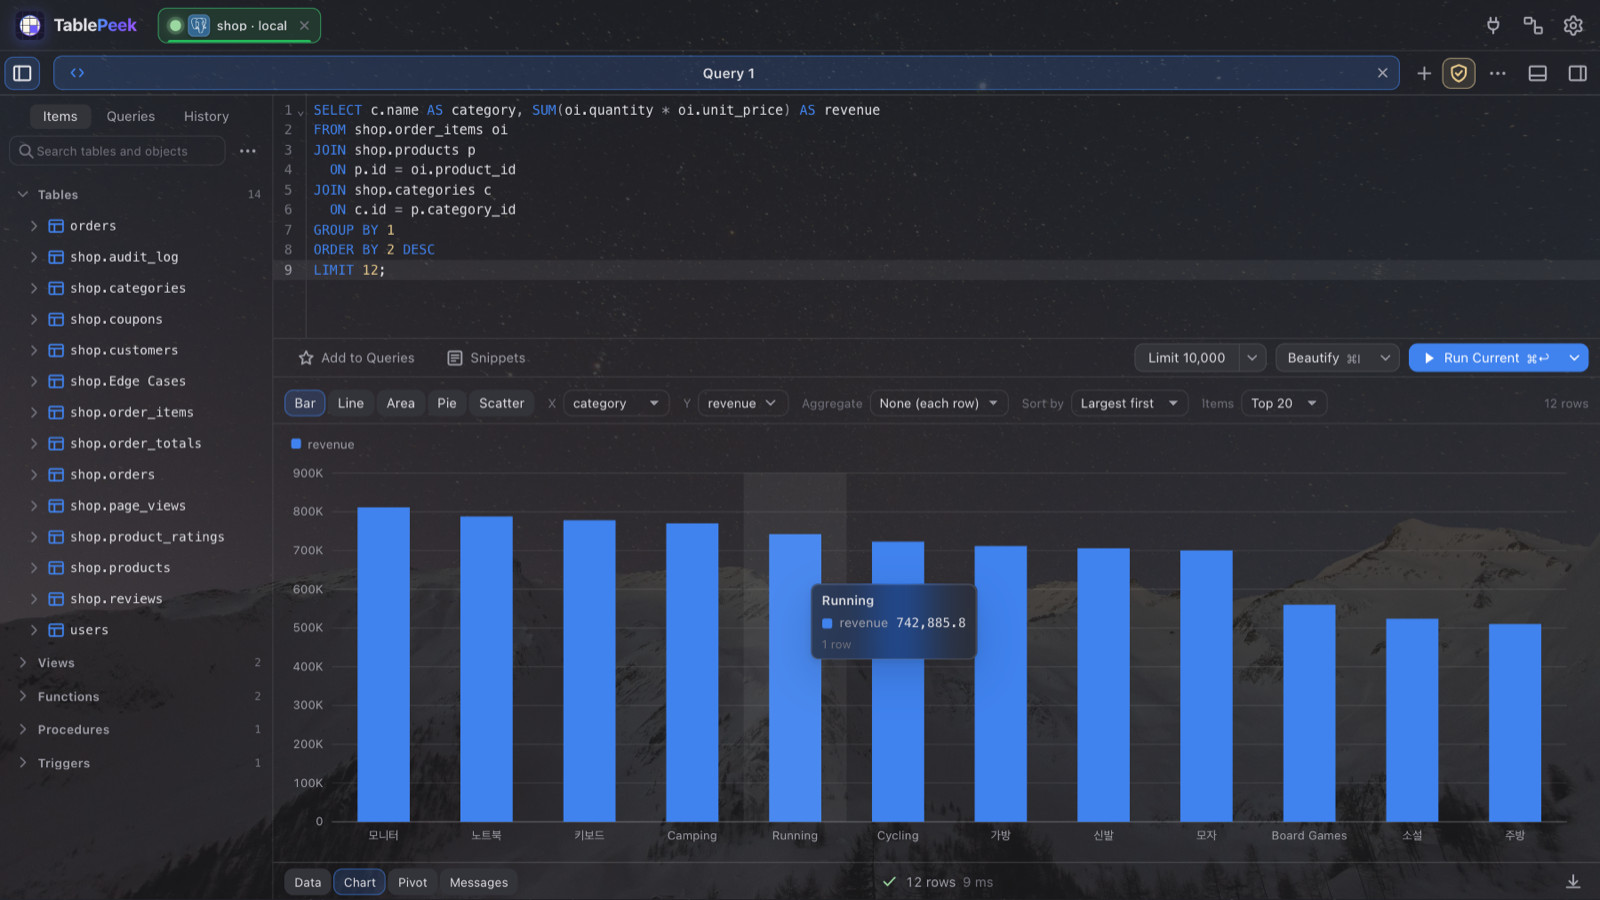
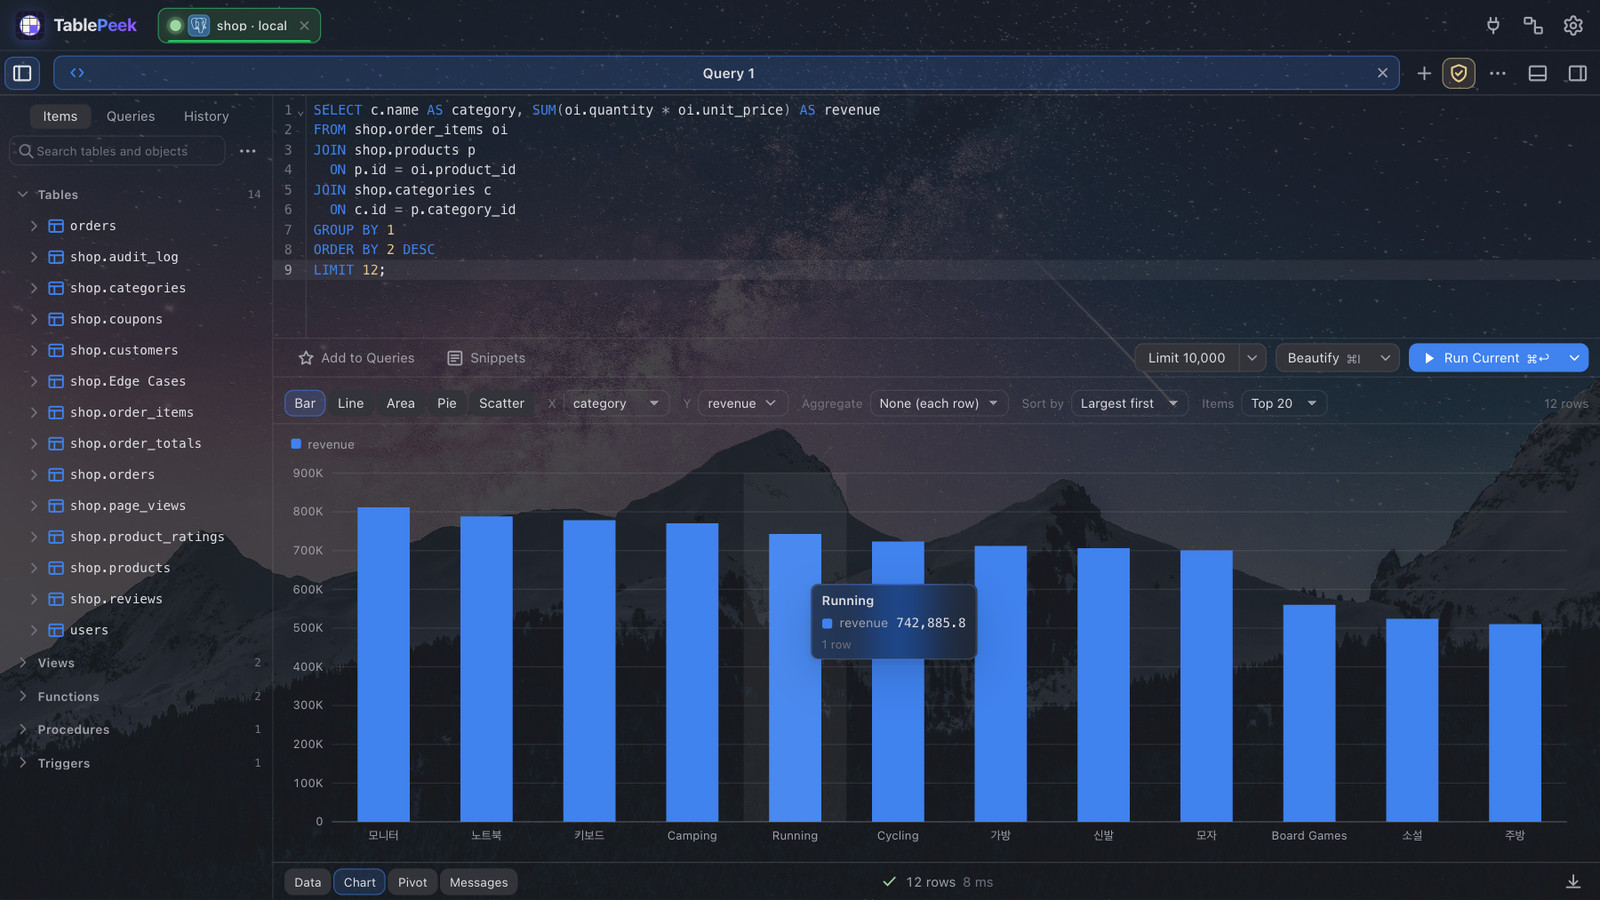
Take the README screenshots over the Milky Way background

diff --git a/README.md b/README.md
@@ -8,7 +8,7 @@
 
 [Install](#install) · [Features](#features) · [Screenshots](#screenshots) · [Documentation](#documentation) · [Changelog](CHANGELOG.md)
 
-![TablePeek as a desktop app (dark theme over a background picture) and in a browser tab (light theme), both showing a PostgreSQL query and its results](docs/images/overview.jpg)
+![TablePeek as a desktop app (dark theme over a Milky Way background picture) and in a browser tab (light theme), both showing a PostgreSQL query and its results](docs/images/overview.jpg)
 
 </div>
 
